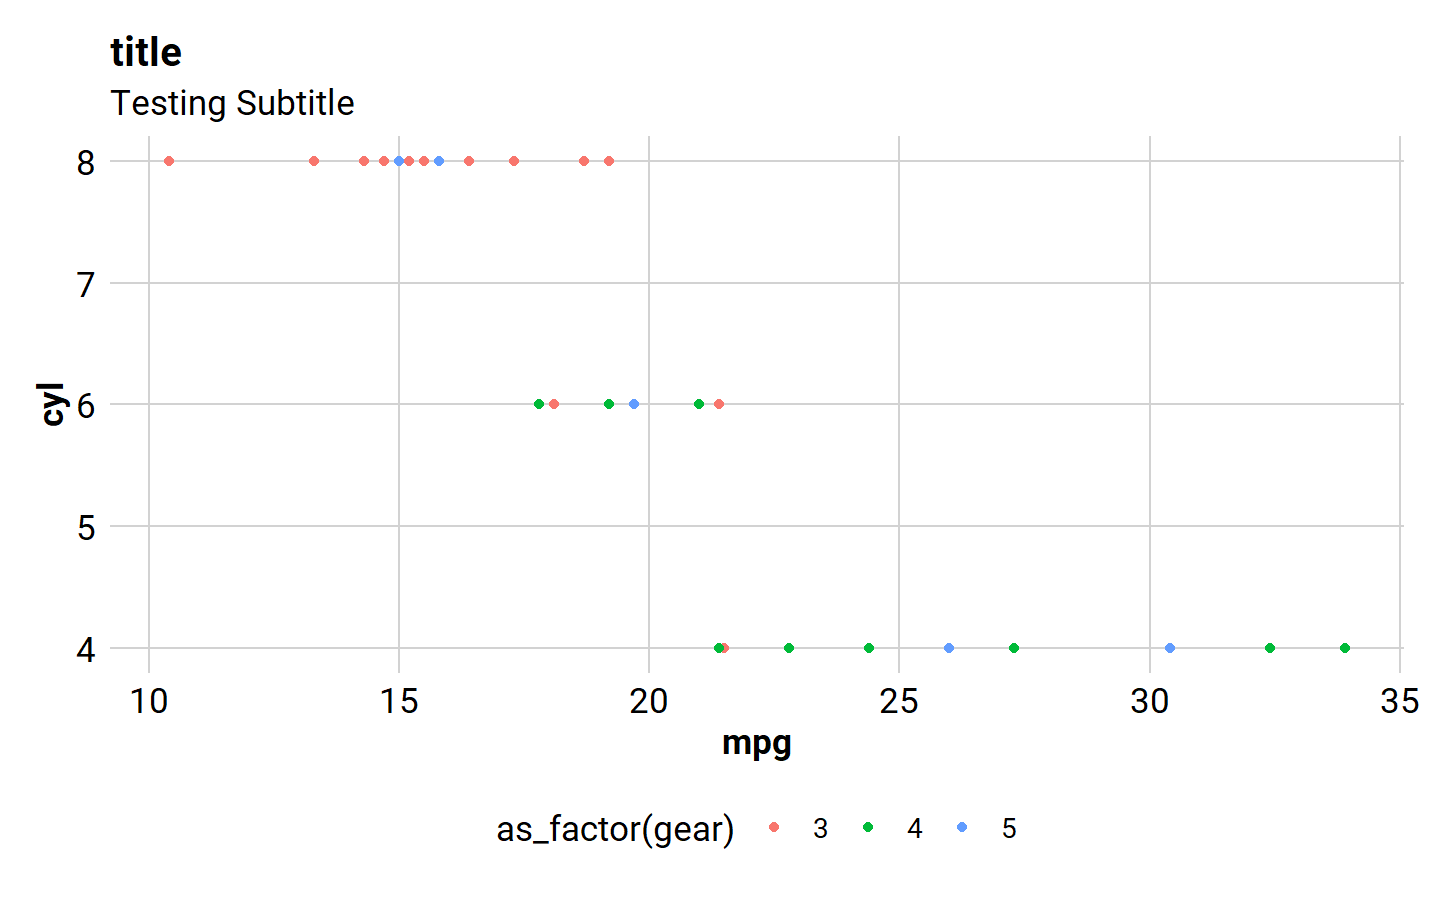
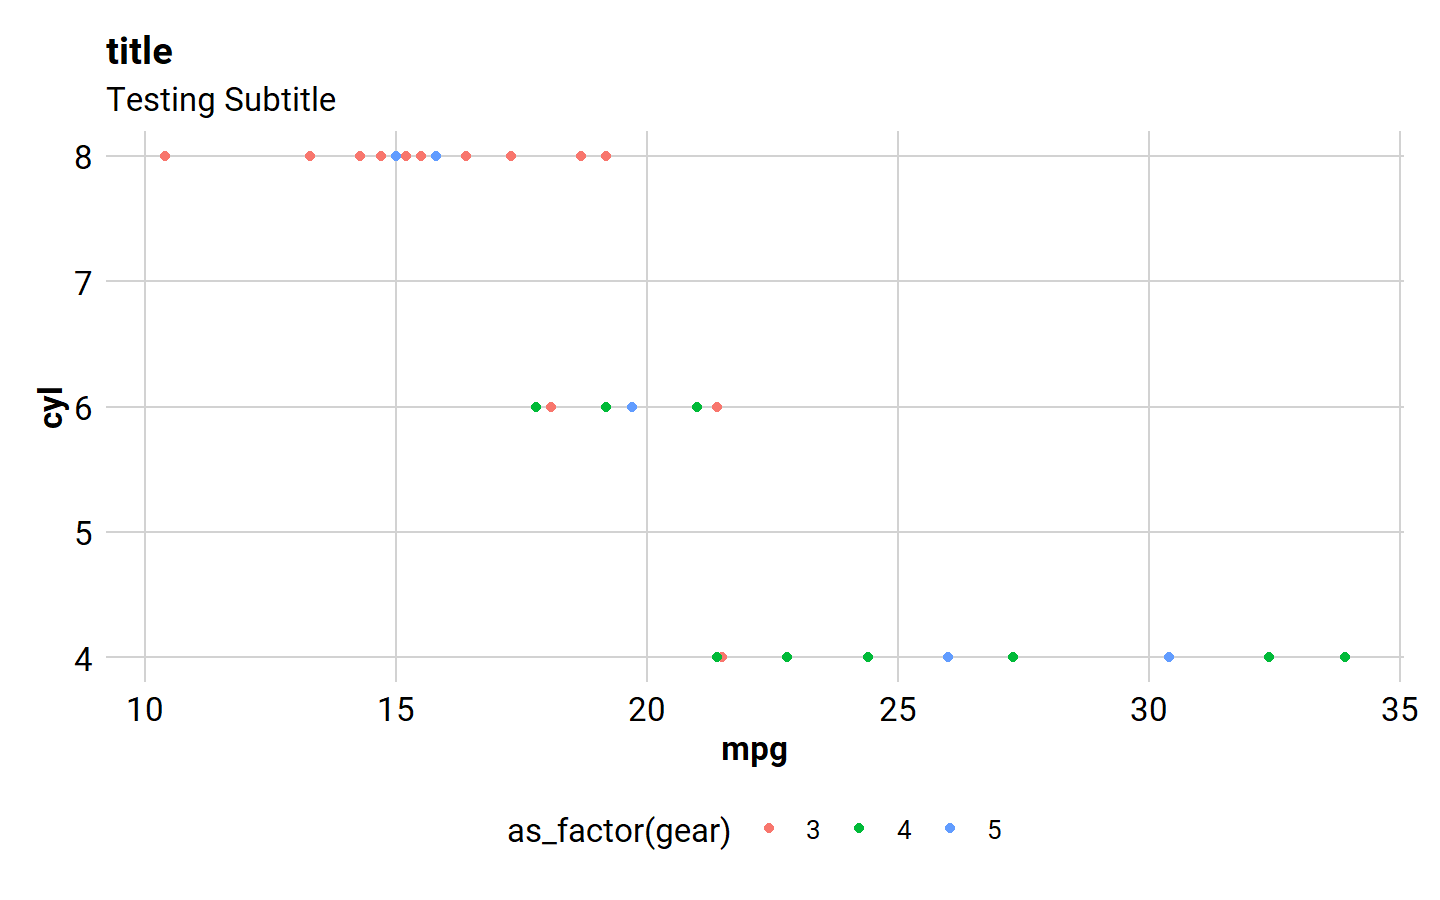
Font Bugfix

diff --git a/README.md b/README.md
@@ -69,7 +69,7 @@ mtcars %>%
   ggplot(aes(mpg, cyl, color = as_factor(gear))) +
   geom_point() +
   labs(title = "title", subtitle = "Testing Subtitle") + 
-  theme_hubnr()
+  theme_hubnr() #theme_plex()
 ```
 
 <img src="man/figures/README-hubnr theme-1.png" title="plot of chunk hubnr theme" alt="plot of chunk hubnr theme" width="100%" />
